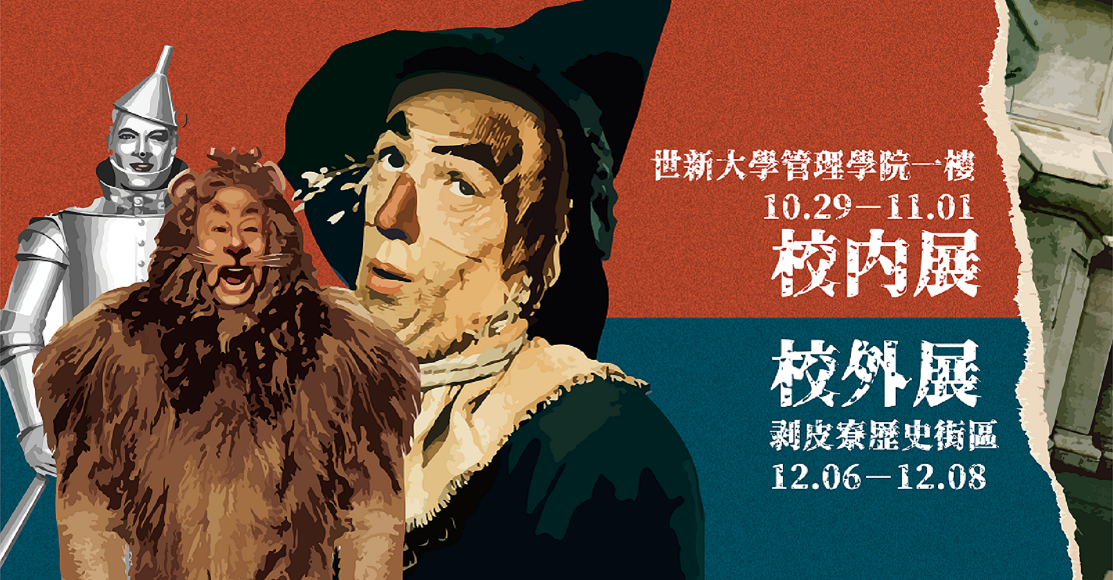
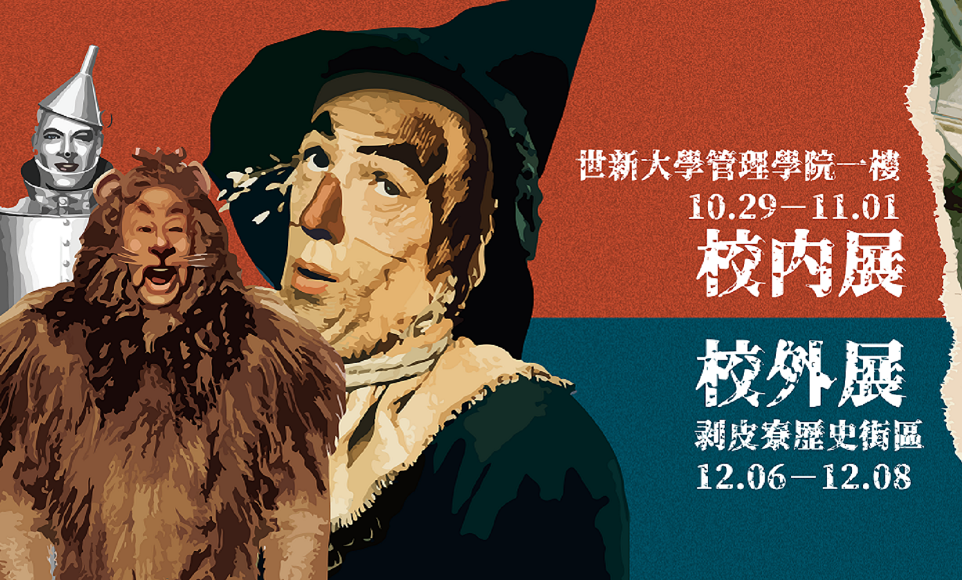
.

diff --git a/css/all.css b/css/all.css
@@ -99,7 +99,7 @@ a:hover{
 	float:left;
 }
 #inform{
-	background: url('../img/banner_ll.png') fixed right center;
+	background: url('../img/banner_l.png') fixed left;
 	background-size: cover;
 	height: 100vh;
 	text-align: center;
@@ -296,7 +296,7 @@ a:hover{
 @media(max-width: 880px)  {
 
 #inform img{
-	margin-top: 620px;
+	margin-top: 580px;
 }
 .curator{
 	width: 100%;
